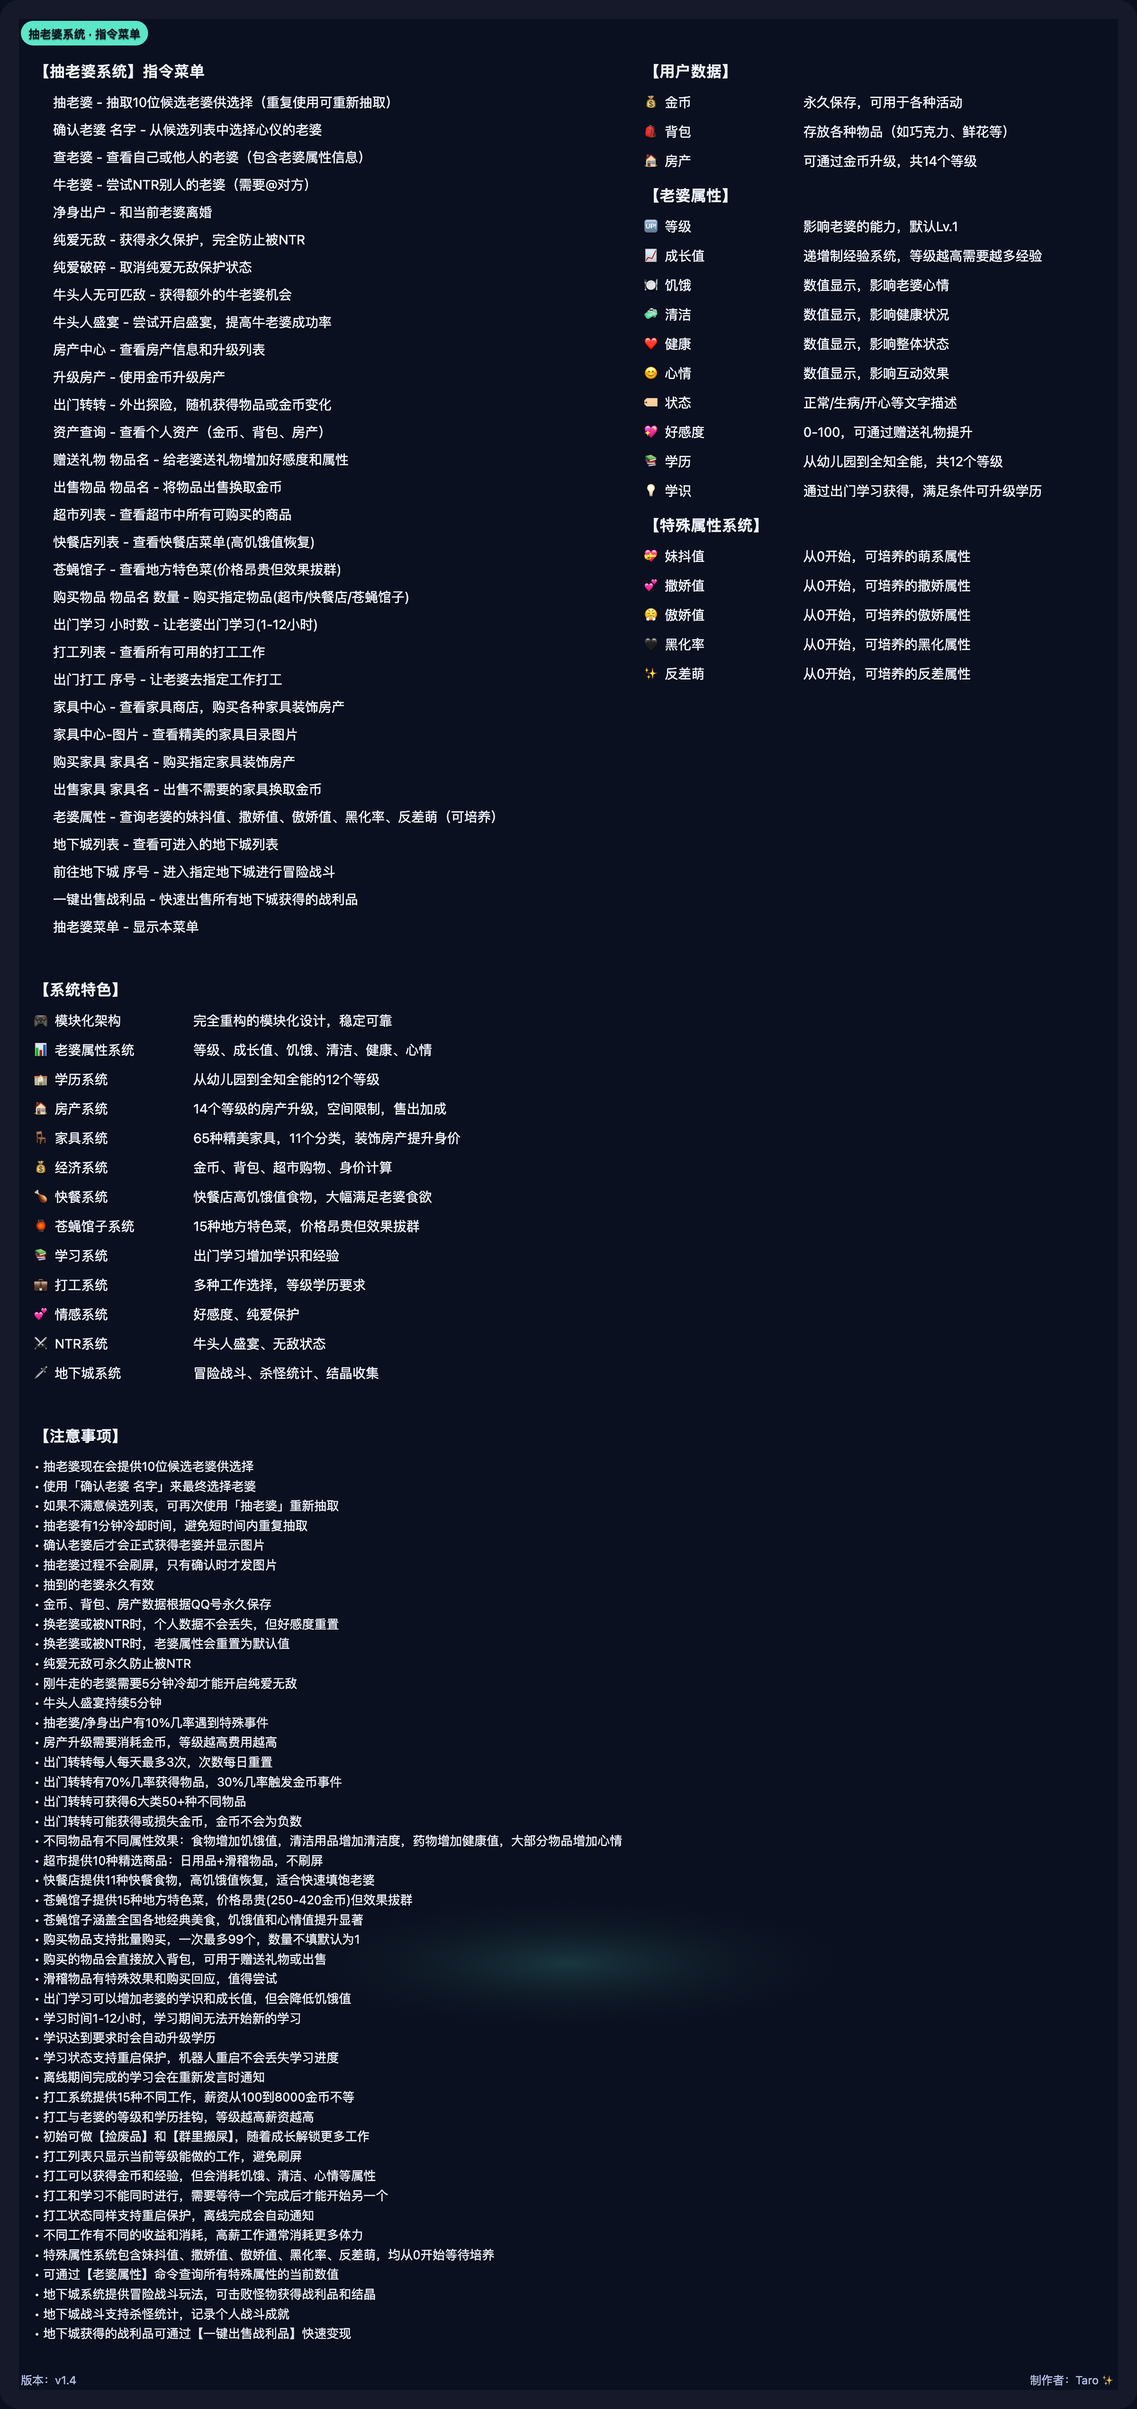
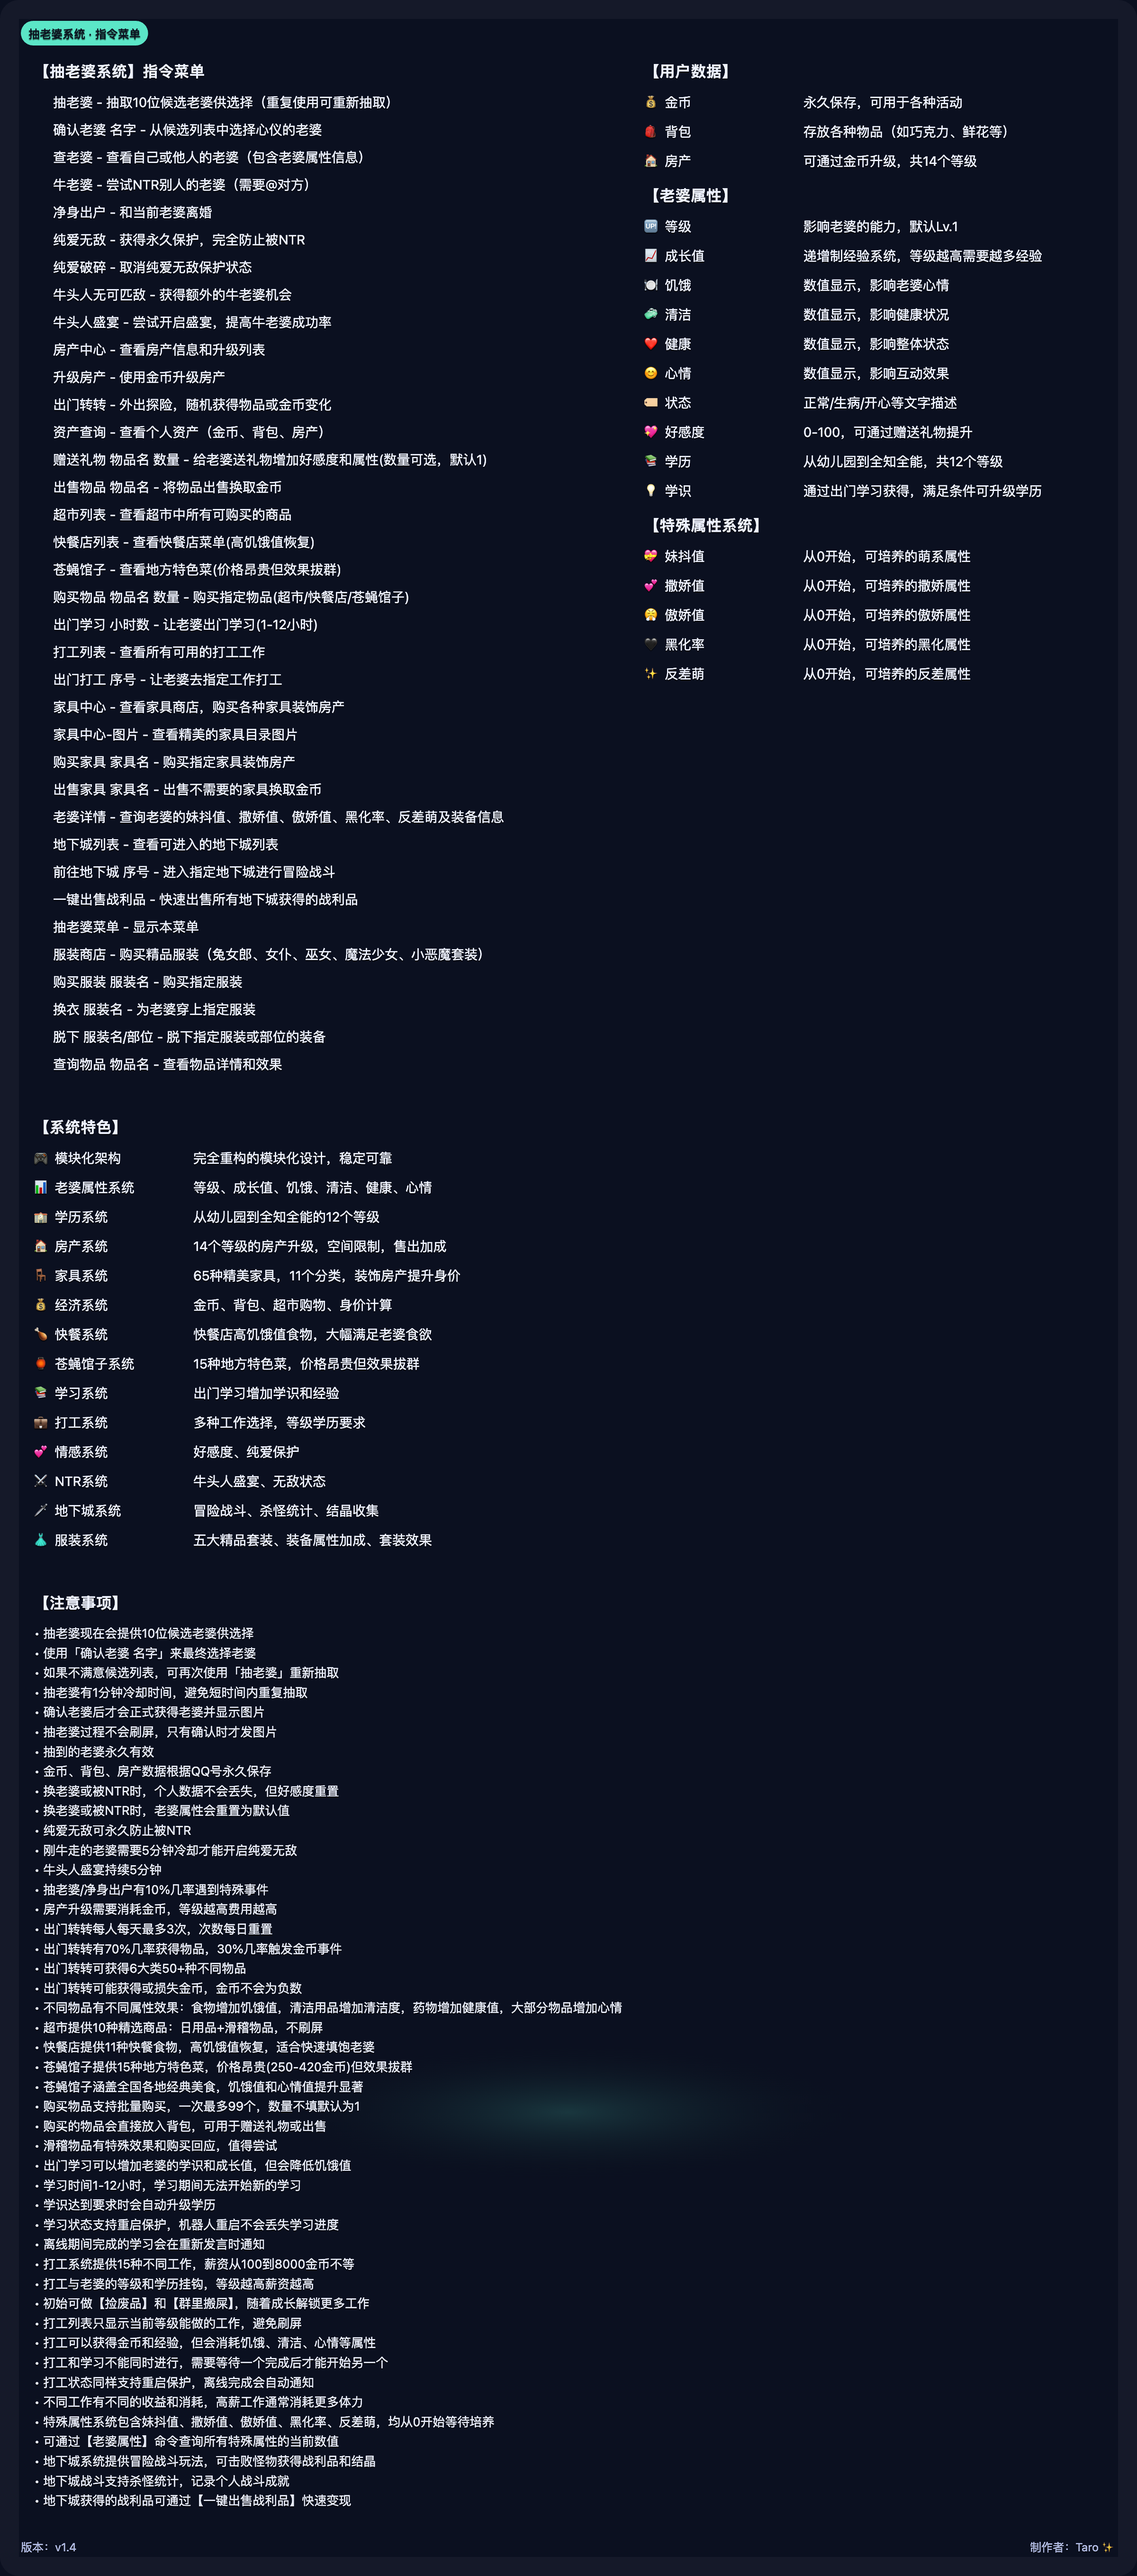
🔥 Fixed issue # 修改菜单

diff --git a/html/menu.html b/html/menu.html
@@ -218,7 +218,7 @@
               <li>升级房产 - 使用金币升级房产</li>
               <li>出门转转 - 外出探险，随机获得物品或金币变化</li>
               <li>资产查询 - 查看个人资产（金币、背包、房产）</li>
-              <li>赠送礼物 物品名 - 给老婆送礼物增加好感度和属性</li>
+              <li>赠送礼物 物品名 数量 - 给老婆送礼物增加好感度和属性(数量可选，默认1)</li>
               <li>出售物品 物品名 - 将物品出售换取金币</li>
               <li>超市列表 - 查看超市中所有可购买的商品</li>
               <li>快餐店列表 - 查看快餐店菜单(高饥饿值恢复)</li>
@@ -231,11 +231,16 @@
               <li>家具中心-图片 - 查看精美的家具目录图片</li>
               <li>购买家具 家具名 - 购买指定家具装饰房产</li>
               <li>出售家具 家具名 - 出售不需要的家具换取金币</li>
-              <li>老婆属性 - 查询老婆的妹抖值、撒娇值、傲娇值、黑化率、反差萌（可培养）</li>
+              <li>老婆详情 - 查询老婆的妹抖值、撒娇值、傲娇值、黑化率、反差萌及装备信息</li>
               <li>地下城列表 - 查看可进入的地下城列表</li>
               <li>前往地下城 序号 - 进入指定地下城进行冒险战斗</li>
               <li>一键出售战利品 - 快速出售所有地下城获得的战利品</li>
               <li>抽老婆菜单 - 显示本菜单</li>
+              <li>服装商店 - 购买精品服装（兔女郎、女仆、巫女、魔法少女、小恶魔套装）</li>
+              <li>购买服装 服装名 - 购买指定服装</li>
+              <li>换衣 服装名 - 为老婆穿上指定服装</li>
+              <li>脱下 服装名/部位 - 脱下指定服装或部位的装备</li>
+              <li>查询物品 物品名 - 查看物品详情和效果</li>
             </ol>
           </section>
 
@@ -380,6 +385,10 @@
             <div class="kv">
               <div class="k">🗡 地下城系统</div>
               <div class="v">冒险战斗、杀怪统计、结晶收集</div>
+            </div>
+            <div class="kv">
+              <div class="k">👗 服装系统</div>
+              <div class="v">五大精品套装、装备属性加成、套装效果</div>
             </div>
           </div>
         </section>
